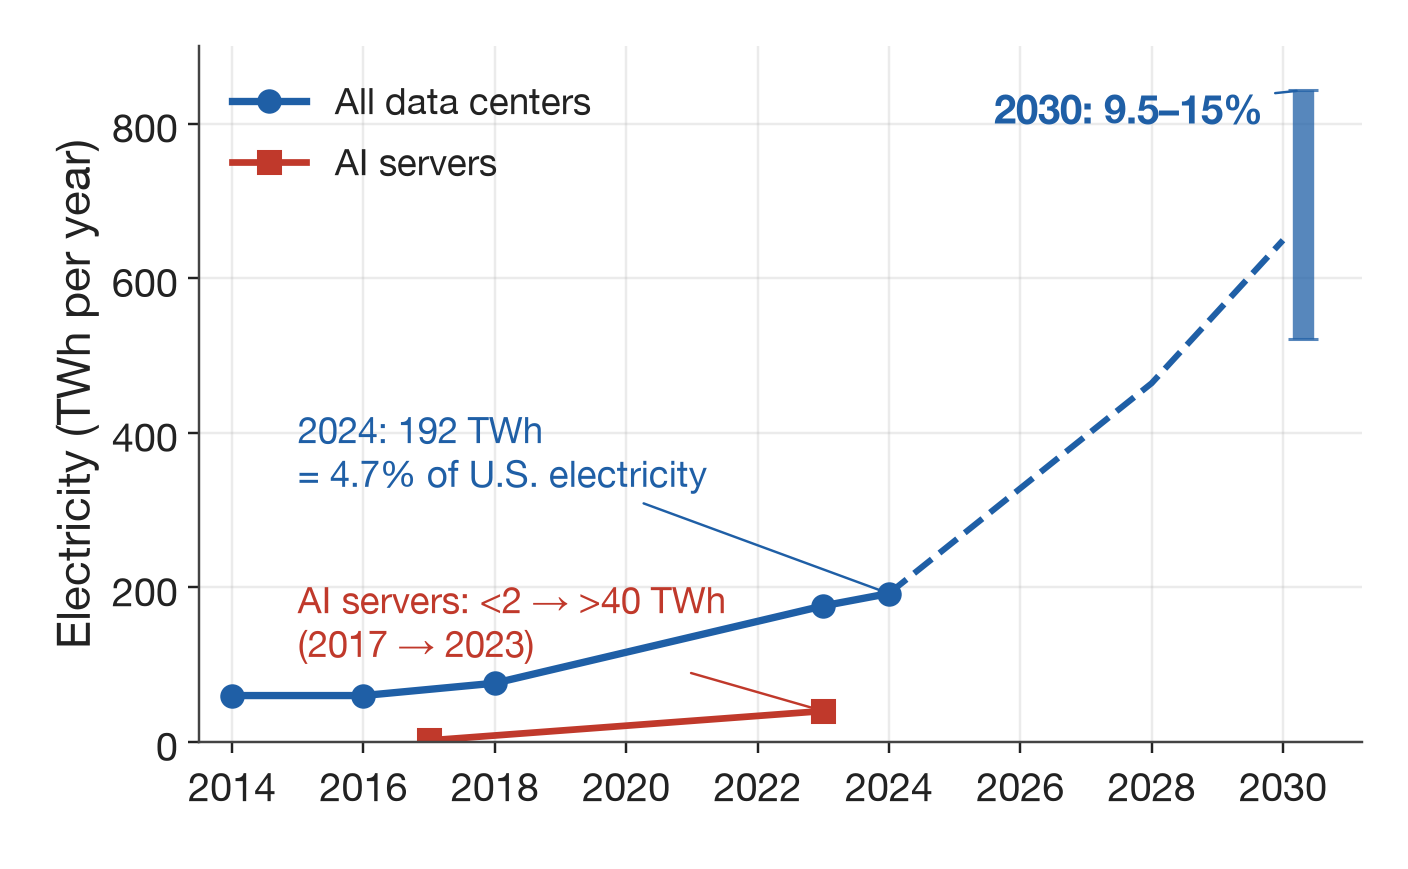
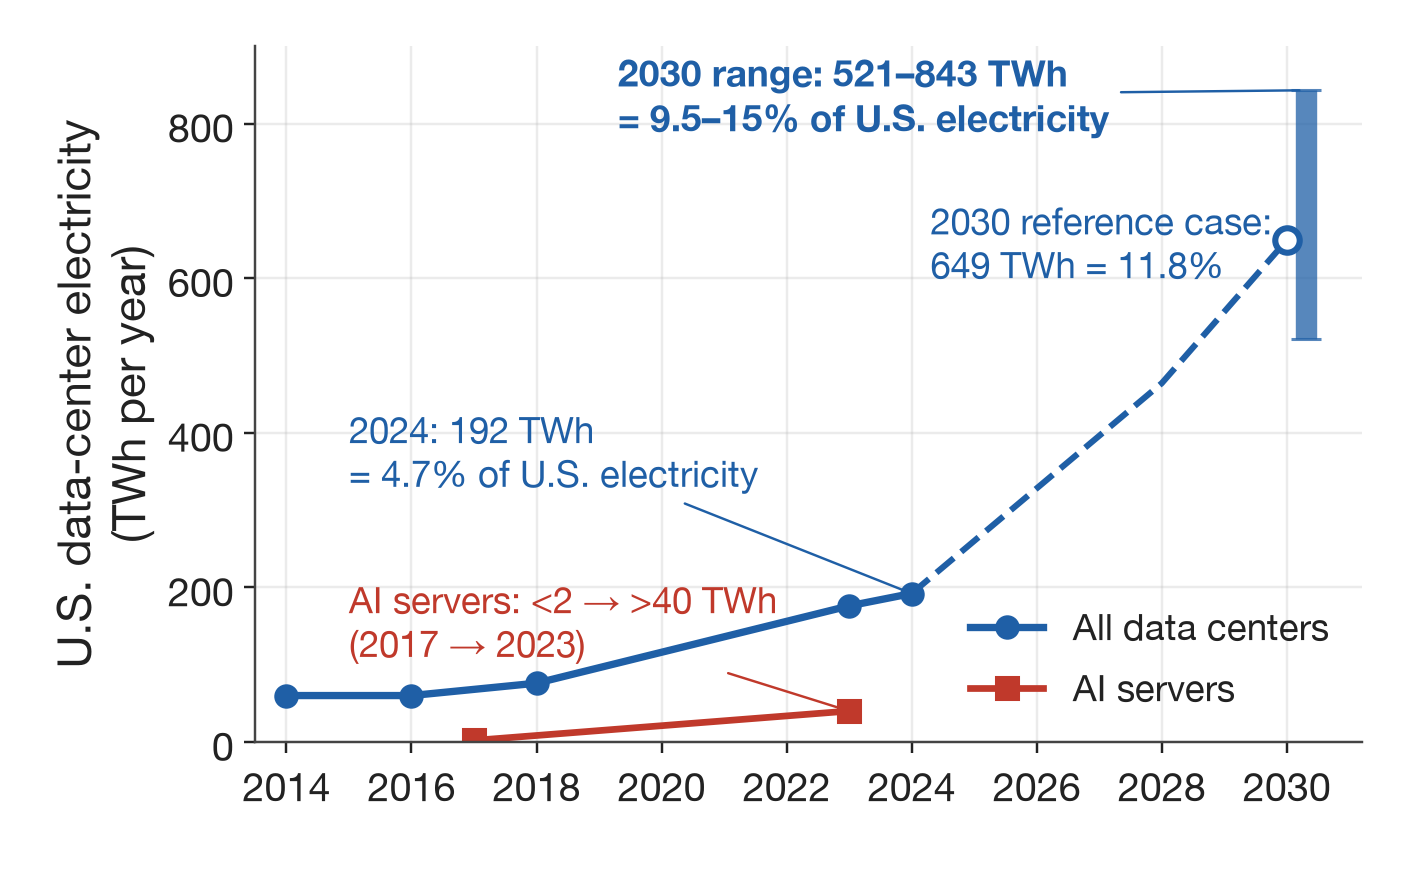
all done

diff --git a/presentations/py/restyle_existing.py b/presentations/py/restyle_existing.py
@@ -268,8 +268,13 @@ def a4_dc_electricity():
     ax.annotate("2024: 192 TWh\n= 4.7% of U.S. electricity", (2024, 192),
                 xytext=(2015.0, 330), fontsize=12, color=BLUE,
                 arrowprops=dict(arrowstyle="-", color=BLUE, lw=0.8))
-    ax.annotate("2030: 9.5–15%", (2030.3, hi), xytext=(2025.6, 800), fontsize=13,
-                color=BLUE, fontweight="bold",
+    # Labels say TWh *and* share explicitly: the chart is U.S. data centers only (2026-10-06).
+    ax.annotate(f"2030 range: {lo:.0f}–{hi:.0f} TWh\n= 9.5–15% of U.S. electricity", (2030.3, hi),
+                xytext=(2019.3, 790), fontsize=12, color=BLUE, fontweight="bold",
+                arrowprops=dict(arrowstyle="-", color=BLUE, lw=0.8))
+    ax.plot(2030, aif.REF_2030, "o", ms=8, color=BLUE, mfc="white", mew=2, zorder=4)
+    ax.annotate(f"2030 reference case:\n{aif.REF_2030:.0f} TWh = 11.8%", (2030, aif.REF_2030),
+                xytext=(2024.3, 600), fontsize=12, color=BLUE,
                 arrowprops=dict(arrowstyle="-", color=BLUE, lw=0.8))
     ax.plot([a[0] for a in aif.AI_ANCHORS], [a[1] for a in aif.AI_ANCHORS], "-s",
             color=RED, lw=2.2, ms=7, label="AI servers")
@@ -278,8 +283,8 @@ def a4_dc_electricity():
                 arrowprops=dict(arrowstyle="-", color=RED, lw=0.8))
     ax.set_xlim(2013.5, 2031.2)
     ax.set_ylim(0, 900)
-    ax.set_ylabel("Electricity (TWh per year)")
-    ax.legend(loc="upper left", frameon=False)
+    ax.set_ylabel("U.S. data-center electricity\n(TWh per year)")
+    ax.legend(loc="lower right", frameon=False)
     save(fig, "a4_dc_electricity.png",
          "Data: LBNL 2024 U.S. Data Center Energy Usage Report; LBNL 2025 Update (Reference Case and 2030 range)",
          "A4")
@@ -300,7 +305,8 @@ def a4_dc_water_inset():
         ax.text(v + 20, y, f"{v:g}", va="center", fontsize=14, fontweight="bold")
     ax.set_xlim(0, 1150)
     ax.set_xticks([0, 500, 1000])
-    ax.set_xlabel("Water used\n(billion liters/yr)", fontsize=13)
+    # Consumption = water lost to evaporation (LBNL 2024 pp. 55-57), not withdrawal (2026-10-06).
+    ax.set_xlabel("Water evaporated\n(billion liters/yr)", fontsize=13)
     ax.set_title("…and water", fontsize=14)
     ax.tick_params(axis="x", labelsize=12)
     ax.grid(axis="y", visible=False)

diff --git a/Logs/2026/10/2026-10-06.md b/Logs/2026/10/2026-10-06.md
@@ -1,0 +1,67 @@
+# Logging for 2026-10-06
+
+## 2026-10-06 — WMKO talk, question: what does "water used" mean (A4 inset)?
+
+**Prompt:** In the figure showing "water used", what does this mean?  Is it water in the cooling systems of the data centers and power plants?  Or the water that evaportates or turns unpotable due to the process?
+
+**Model:** Claude Opus 5.5
+**Tokens (estimate):** ~8,000. Authoritative count in `log_summary.csv` (hook).
+**CO2 estimate:** ≈ **0.6 gCO2**
+
+### Narrative
+
+I answered from `context/claudes_context.md` §14.3 and the page-cited comments in
+`CI_Reports/make_ai_figures.py`: both bars are water *consumption*, i.e. water lost
+to evaporation. On-site: data-center cooling consumption (LBNL 2024, pp. 55–56);
+power plants: water evaporated generating the electricity (p. 57, ~12× on-site).
+Neither is withdrawal or recirculating cooling water, and neither counts water
+returned degraded. I flagged that I had not re-read LBNL's methods this session
+(open question: does the power-plant figure include hydro-reservoir evaporation?).
+I also noted that the slide's axis label "Water used" is less precise than the
+original report figure's "Water consumed", proposed "Water evaporated", and offered
+to make the change. No files changed.
+
+## 2026-10-06 — WMKO talk, question: what is the 2030 electricity projection (A4)?
+
+**Prompt:** And for the Electricity figure, what is the 2030 projection?  Is it total projected usage including data centers?  And what is the 2030 projection for data centers alone?
+
+**Model:** Claude Opus 5.5
+**Tokens (estimate):** ~5,000. Authoritative count in `log_summary.csv` (hook).
+**CO2 estimate:** ≈ **0.4 gCO2**
+
+### Narrative
+
+From the page-cited constants in `CI_Reports/make_ai_figures.py` (LBNL 2024 and the
+2025 Update): the chart is U.S. data centers only. The 2030 Reference Case is 649 TWh
+= 11.8% of U.S. electricity; the stress-tested range is 521–843 TWh = 9.5–15.3%,
+which is the bar and the "2030: 9.5–15%" label. 2024 was 192 TWh = 4.7%. AI servers
+are ~55% of the 2030 Reference Case. I did not state an implied U.S. total, because
+per CLAUDE.md a derived number should come from a script. The "%" label next to a
+TWh bar invites exactly the misreading the author asked about, so I offered to
+relabel it, bundled with the water relabel. No files changed.
+
+## 2026-10-06 — WMKO talk, relabel the two A4 figures
+
+**Prompt:** yes, please remake those two figures.  I will then edit the Slides myself
+  just tell me where the two new PNGs are
+
+**Model:** Claude Opus 5.5
+**Tokens (estimate):** ~15,000. Authoritative count in `log_summary.csv` (hook).
+**CO2 estimate:** ≈ **1.1 gCO2**
+
+### Narrative
+
+Edited `presentations/py/restyle_existing.py` and re-ran it (the other six figures
+regenerate unchanged).
+- **Electricity (`a4_dc_electricity.png`).** The y-axis now reads "U.S. data-center
+  electricity"; the 2030 label states both units ("2030 range: 521–843 TWh = 9.5–15%
+  of U.S. electricity"); and a new open marker and label give the reference case
+  ("649 TWh = 11.8%"). Values come from the page-cited LBNL constants, not retyped.
+  The first render had the range label colliding with the legend, so I moved the
+  legend to the empty lower-right corner.
+- **Water (`a4_dc_water_inset.png`).** The x-label now reads "Water evaporated"
+  (consumption, per LBNL 2024 pp. 55–57).
+
+At the author's request I did not rebuild the deck or touch Drive: they will swap the
+PNGs into Google Slides by hand. The local `.pptx` (source of truth) is now one step
+behind the figures until the next `assemble_deck.py` run.

diff --git a/claude_prompts/presentations/wmko_oct2026.md b/claude_prompts/presentations/wmko_oct2026.md
@@ -492,11 +492,11 @@ Nothing else blocks the build. With answers to 35, 37, 38 (the three figure choi
 
 ## To Do
 
-1. Add the Eye of Sauron image to slide 33 ("10: The Eye of Sauron", A10) — a dashed, labeled box marks the spot (Q43).
-1. Update the title-slide author line (still the 2024 Kraw affiliations: "UC Santa Cruz, Kavli IPMU, Simons Pivot Fellow") (Q44).
-1. Paste slide 6 of AOGS_2026 ("My AI Team") into slide 2 (Q22/Q42).
-1. Write the Transition slide (slide 23, blank) (Q33).
-1. Write the Summary slide (slide 34) (Q34).
-1. Add humor sub-lines where wanted (Q9).
-1. Before any *public* posting of the deck: get WMKO's OK for the HIRES photo (keckobservatory.org asks for written consent), and swap or drop any fair-use image.
-1. Add the lines of code vs. time figure `loc_over_time.png`
+1. Add the Eye of Sauron image to slide 33 ("10: The Eye of Sauron", A10) — a dashed, labeled box marks the spot (Q43). -- DONE
+1. Update the title-slide author line (still the 2024 Kraw affiliations: "UC Santa Cruz, Kavli IPMU, Simons Pivot Fellow") (Q44). -- DONE
+1. Paste slide 6 of AOGS_2026 ("My AI Team") into slide 2 (Q22/Q42). -- DONE
+1. Write the Transition slide (slide 23, blank) (Q33). -- DONE
+1. Write the Summary slide (slide 34) (Q34). -- DONE
+1. Add humor sub-lines where wanted (Q9). -- DONE
+1. Before any *public* posting of the deck: get WMKO's OK for the HIRES photo (keckobservatory.org asks for written consent), and swap or drop any fair-use image. -- DONE
+1. Add the lines of code vs. time figure `loc_over_time.png` -- DONE
